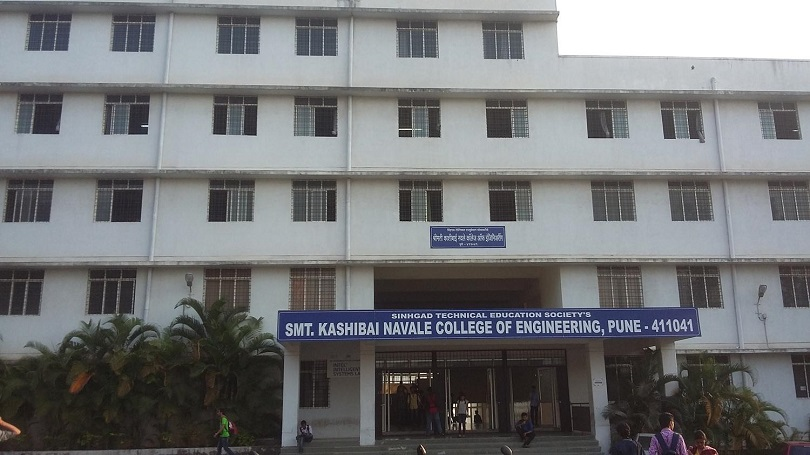
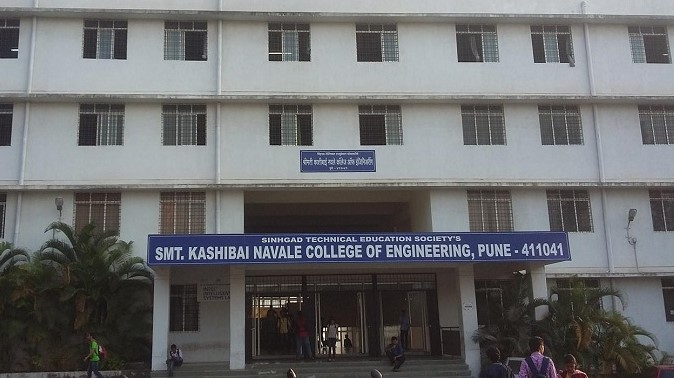
added images to information panel

diff --git a/college_website/templets/home.html b/college_website/templets/home.html
@@ -4,7 +4,7 @@
 
 <link href="{% static 'stylesheets/home.css'%}" rel="stylesheet" >
 
-<div  class="container-fluid">
+<div  class="container-fluid p-0">
     <!-- jumbotron -->
     <div class="container-xl">
         <div class=" container-fluid myjumbotron">
@@ -38,43 +38,81 @@
             <div class="row center-panel m-0">
                 <!-- information panal -->
                 <div class="col-lg-8 col-mid-8 col-sm-12 information-panel ">
-                    <div class="">
-                        <fieldset class=" fieldset-container shadow">
-                            <legend class="legend"><strong>ABOUT THE INSTITUTE</strong></legend>
-                            <div class="information-panel-body">
-                                <div  class="information-panel-body-img">
-                                     <img src="{% static 'images/college1.jpg' %}" width="90%">
-                                 </div>
-                                 <div class="information-panel-body-text" >
-                                    <p class=" text-justify m-3 px-2">
-                                        The Sinhgad Group of Educational Institutes, spread over Maharashtra have a presence to reckon with.
-                                        The Group is benchmarked in every aspect. It struck its foundation in 1993 to transform the dream of 
-                                        its visionary architect Founder President Prof. M. N. Navale into a palpable reality. The entire Sinhgad Group has convincingly evolved,
-                                        into the most sought after education destination. Every Institute is duly accredited by NBA, 
-                                        approved by AICTE and affiliated to Savitribai Phule Pune University. Its Smt. Kashibai Navale Medical College subscribes
-                                        to the code of the IMC. Every Institute has an Independent presence with enviable state-of-the-art infrastructure and all the 
-                                        facilities and resources, to label it an ideal place for learning. Invariably every campus has an impressive Research Centre and 
-                                        extensively stocked Library. It Comprises Institutes in its fold, run by capable and qualified resource people, drawn from various
-                                        disciplines. The entire Sinhgad Educational conglomerate continues in its search for excellence.
-                                    </p>
-                                 </div>
-                           </div>
+
+                    <div class="d-flex">
+                        <fieldset class="d-flex flex-column justify-content-center fieldset-container p-4" >
+                            <legend class="legend text-uppercase"><strong> About The Institute</strong> </legend>
+                            <div class="">
+                                <img class="img-fluid" src="{% static 'images/college1.jpg' %}" alt="college_image" width="100%">
+                            </div>
+                            <div class="text-justify pt-5">
+                                <p>
+                                    The Sinhgad Group of Educational Institutes, spread over Maharashtra have a presence to reckon with. 
+                                    The Group is benchmarked in every aspect. It struck its foundation in 1993 to transform the dream of its visionary architect Founder
+                                    President Prof. M. N. Navale into a palpable reality. The entire Sinhgad Group has convincingly evolved, into the most sought 
+                                    after education destination. Every Institute is duly accredited by NBA, approved by AICTE and affiliated to Savitribai Phule 
+                                    Pune University. Its Smt. Kashibai Navale Medical College subscribes to the code of the IMC. Every Institute has an Independent
+                                    presence with enviable state-of-the-art infrastructure and all the facilities and resources, to label it an ideal place for learning.
+                                    Invariably every campus has an impressive Research Centre and extensively stocked Library. It Comprises Institutes in its fold,
+                                    run by capable and qualified resource people, drawn from various disciplines.
+                                    The entire Sinhgad Educational conglomerate continues in its search for excellence.
+                                 </p>
+                            </div>
                         </fieldset>
                     </div>
-                    <div class="">
-                        <fieldset class="fieldset-container shadow">
-                            <legend class="legend"><strong>ABOUT THE DEPARTMENT</strong></legend>
-                            <p class=" text-justify m-3 px-2">
-                                Department of Computer Engineering was started in 1986 with the intake of 60 and intake is increased to 120 in the academic year 2012-2013. Department has completed its silver jubilee in year 2011. The department is accredited thrice by National Board of Accreditation, New Delhi. The department has introduced with ME (Computer Engineering) in the year 2010 with the intake of 18. Department has excellent infrastructure and human resources to cater both these courses.
 
-                                The department has well qualified and experienced staff. We have excellent record of results and placements. Department is enriched with the laboratories with de-facto standards. Laboratories are well equipped with latest software and hardware. Students are trained in Computer Programming for engineering applications to meet the IT Industry challenges.
+                    <div class="d-flex">
+                        <fieldset class="d-flex flex-column justify-content-center fieldset-container p-4" >
+                            <legend class="legend text-uppercase"><strong> About The Department</strong> </legend>
+                            <div class="">
+                                <img class="img-fluid" src="{% static 'images/department.jpg' %}" alt="college_image" width="100%">
+                            </div>
+                            <div class="text-justify pt-5">
+                                <p>
+                                    Department of Computer Engineering was started in 1986 with the intake of 60 and 
+                                    intake is increased to 120 in the academic year 2012-2013. Department has
+                                     completed its silver jubilee in year 2011. The department is accredited thrice
+                                      by National Board of Accreditation, New Delhi. The department has introduced 
+                                      with ME (Computer Engineering) in the year 2010 with the intake of 18. 
+                                      Department has excellent infrastructure and human resources to cater both these 
+                                      courses.<br><br>
 
-                                Department has tie up with NVIDIA and has setup NVIDIA GPU Teaching Centre housing four workstations & IoT based NVIDIA Jetson embedded board which gives exposure to students on parallel and concurrent programming. Also the department has tie up with IIT Powai for AAKASH R&D Project. The department has tie up with MiTu Skillologies, Nashik for Big Data Analytics Centre of Excellence to provide students with big data analytics platform. IRT Incubation Centre, Microsoft Student Partner Program, IBM Academic Initiative and NPTEL Local Centre are other initiatives in the department which has been proved as an extra advantage to the department. Department has also tie up with ESDS Software private Ltd. Nashik for Cloud Computing – Centre of Excellence for the exposure of student on Cloud platform.
-
-                                Department focuses on building the student enough competent to get placed in well known companies. ACES (Association of Computer Engineering Students) is the student association, which looks into the various co-curricular activities in the department. The department organizes various expert lectures, educational visits, programming contest for students. Department also runs CSI student chapter under the CSI Nasik region, ISTE student chapter. The overall goal of the department is to make brilliant and dynamic students to meet the industry challenges.
-                            </p>
+                                   The department has well qualified and experienced staff. We have excellent record 
+                                    of results and placements. Department is enriched with the laboratories with
+                                     de-facto standards. Laboratories are well equipped with latest software and 
+                                     hardware. Students are trained in Computer Programming for engineering 
+                                     applications to meet the IT Industry challenges.<br><br>
+    
+                                    Department has tie up with NVIDIA and has setup NVIDIA GPU Teaching Centre housing 
+                                    our workstations & IoT based NVIDIA Jetson embedded board which gives
+                                     exposure to students on parallel and concurrent programming. Also the
+                                    department has tie up with IIT Powai for AAKASH R&D Project. The department
+                                     has tie up with MiTu Skillologies, Nashik for Big Data Analytics Centre of 
+                                    Excellence to provide students with big data analytics platform. IRT Incubation
+                                    Centre, Microsoft Student Partner Program, IBM Academic Initiative and NPTEL
+                                     Local Centre are other initiatives in the department which has been proved as
+                                    an extra advantage to the department. Department has also tie up with ESDS 
+                                    Software private Ltd. Nashik for Cloud Computing – Centre of Excellence for
+                                    the exposure of student on Cloud platform.<br><br>
+    
+                                   Department focuses on building the student enough competent v
+                                    to get placed in well known companies. ACES (Association of Computer Engineering
+                                     Students) is the student association, which looks into the various co-curricular
+                                      activities in the department. The department organizes various expert lectures, 
+                                      educational visits, programming contest for students. Department also runs CSI 
+                                      student chapter under the CSI Nasik region, ISTE student chapter. The overall 
+                                      goal of the department is to make brilliant and dynamic students to meet the 
+                                      industry challenges.
+                                 </p>
+                            </div>
                         </fieldset>
                     </div>
+
+
+
+
+                    
+                 
                 </div>
 
                 <!-- side panal -->

diff --git a/college_website/statics/stylesheets/home.css b/college_website/statics/stylesheets/home.css
@@ -63,22 +63,6 @@ body{
     
 }
 
-.information-panel-body{
-    display: flex;
-    justify-content: center;
-    align-items: center;
-    flex-direction: column;
-}
-
-.information-panel-body-img{
-    display: flex;
-    width: 90%;
-    padding: 30px;
-}
-
-.information-panel-body-text{
-    display: flex;
-}
 
 
 /* side panel */
@@ -104,4 +88,9 @@ body{
 
 .card-heading-text{
     padding: 10px;
+}
+
+.contact-us{
+    width: 60%;
+    padding: 1%;
 }

diff --git a/college_website/templets/contact_us.html b/college_website/templets/contact_us.html
@@ -2,7 +2,7 @@
 {% load static%}
 {% block content %}
 <link href="{% static 'stylesheets/home.css'%}" rel="stylesheet" >
-<div class="container-sm mx-auto mt-5  ">
+<div class="container-md contact-us ">
     <fieldset class="fieldset-container shadow">
         <legend class="legend text-uppercase"><strong>Connect with us</strong></legend>
         <p class=" text-justify m-3 px-2 ">

diff --git a/college_website/assets/stylesheets/home.css b/college_website/assets/stylesheets/home.css
@@ -63,6 +63,23 @@ body{
     
 }
 
+.information-panel-body{
+    display: flex;
+    justify-content: center;
+    align-items: center;
+    flex-direction: column;
+}
+
+.information-panel-body-img{
+    display: flex;
+    align-self: center;
+}
+
+.information-panel-body-text{
+    display: flex;
+    align-self: center;
+}
+
 /* side panel */
 
 .side-panel{

diff --git a/college_website/assets/stylesheets/base.css b/college_website/assets/stylesheets/base.css
@@ -15,7 +15,7 @@ body, html{
     align-items: center;
     justify-content: flex-start;
     flex-wrap: wrap;
-
+    padding-bottom: 410px;
 }
 
 .footer-wrapper{
@@ -23,5 +23,5 @@ body, html{
     position: static;
     width: 100%;
     align-self: bottom;
-  
+    margin-top: -400px;
 }

diff --git a/college_website/statics/stylesheets/base.css b/college_website/statics/stylesheets/base.css
@@ -16,12 +16,15 @@ body, html{
     justify-content: flex-start;
     flex-wrap: wrap;
     padding-bottom: 410px;
+    margin-bottom: -400px;
 }
+
+
 
 .footer-wrapper{
     display: flex;
     position: static;
     width: 100%;
     align-self: bottom;
-    margin-top: -400px;
+   
 }
